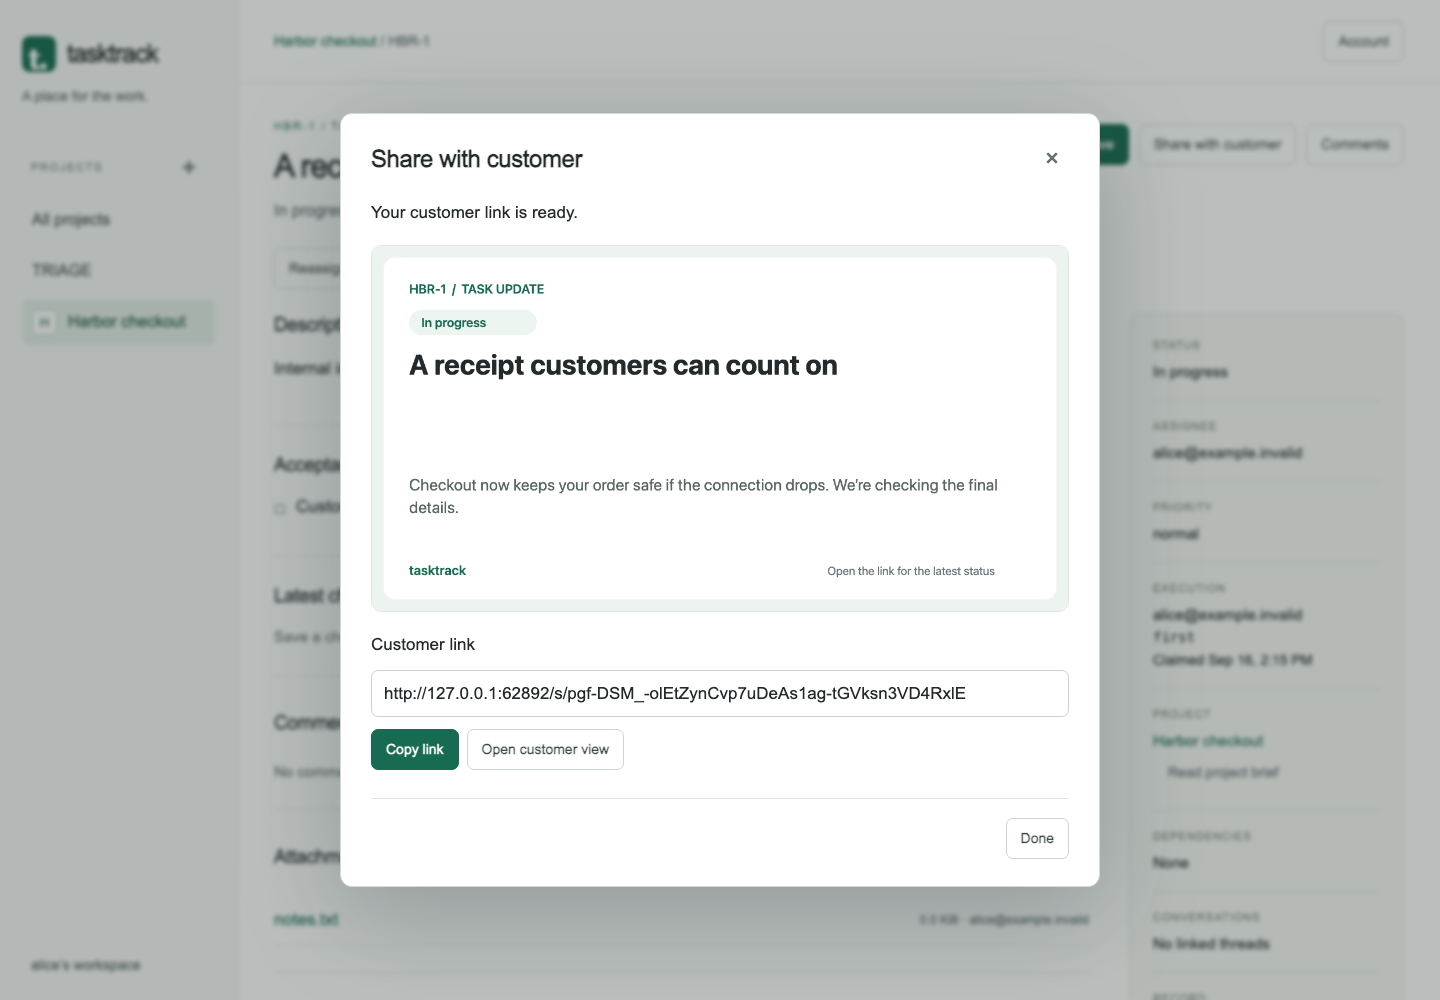
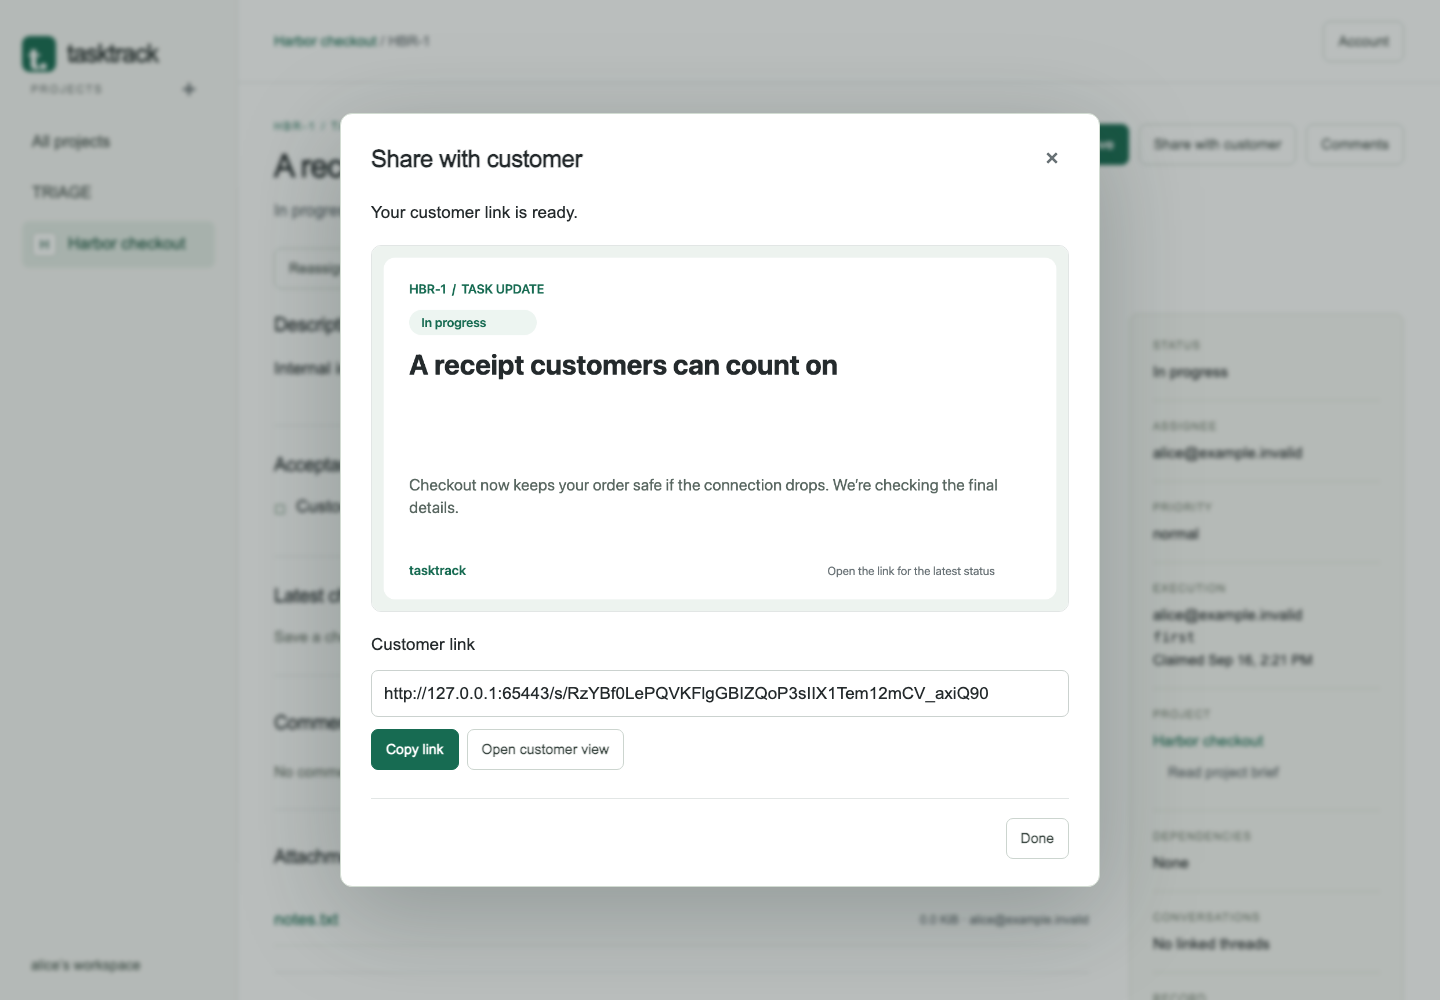
Remove interface filler and condense mobile task cards

diff --git a/tasktrack/static/app.js b/tasktrack/static/app.js
@@ -777,7 +777,7 @@ async function board() {
   const epics = [];
   $("#breadcrumb").textContent = `Projects / ${p.key}`;
   $("#main").innerHTML =
-    `<div class="page-head"><div><p class="eyebrow">${esc(p.key)} / WORKSPACE</p><h1>${esc(p.name)}</h1><p class="page-description">Keep the next step clear. Give good work a place to land.</p></div><div class="head-actions"><button class="button quiet" id="settings">Settings</button><button class="button" id="new-epic">New epic</button><button class="button primary" id="new-task">＋ New task</button></div></div><div class="view-tabs" role="tablist" aria-label="Project views">${[
+    `<div class="page-head"><div><p class="eyebrow">${esc(p.key)} / WORKSPACE</p><h1>${esc(p.name)}</h1></div><div class="head-actions"><button class="button quiet" id="settings">Settings</button><button class="button" id="new-epic">New epic</button><button class="button primary" id="new-task">＋ New task</button></div></div><div class="view-tabs" role="tablist" aria-label="Project views">${[
       ["board", "Board"],
       ["brief", "Project brief"],
       ["history", "Activity"],
@@ -826,7 +826,7 @@ async function board() {
       )
       .join(
         "",
-      )}</div><div class="board-foot"><span id="board-counts">Loading tasks…</span><span>Drag to move · Use a card’s ⋯ menu with a keyboard</span></div>`;
+      )}</div><div class="board-foot"><span id="board-counts">Loading tasks…</span></div>`;
   let timer;
   for (const [id, key] of [
     ["search", "q"],
@@ -954,7 +954,7 @@ function renderColumn(status) {
   $("#count-" + status).textContent = column.total;
   $("#cards-" + status).innerHTML = column.items.length
     ? column.items.map(card).join("")
-    : `<div class="empty-column">${state.view === "archived" ? "No archived work" : Object.values(state.filters).some(Boolean) ? "No matching tasks" : "Room for what’s next"}</div>`;
+    : `<div class="empty-column">${state.view === "archived" ? "No archived work" : Object.values(state.filters).some(Boolean) ? "No matching tasks" : "No tasks"}</div>`;
   $("#more-" + status).innerHTML = column.has_more
     ? `<button class="button load-more" id="load-${status}">Load more · ${column.items.length} of ${column.total}</button>`
     : "";
@@ -1185,7 +1185,7 @@ async function detail(identifier, navigation = state.navigation) {
 }
 function commentForm(task, parent = null) {
   showForm(
-    parent ? "Reply to " + parent.actor : "Add a durable note",
+    parent ? "Reply to " + parent.actor : "Add comment",
     (parent
       ? `<blockquote class="reply-context">${esc(parent.body.slice(0, 240))}</blockquote>`
       : "") +
@@ -1492,7 +1492,7 @@ async function projectIndex() {
   document.title = "Projects · Tasktrack";
   $("#breadcrumb").textContent = "Projects";
   $("#main").innerHTML =
-    `<div class="page-head"><div><h1>Projects</h1><p class="page-description">Your team's work, in one place.</p></div><button class="button primary" id="index-create">New project</button></div><a class="triage-entry" href="/triage" data-nav><strong>TRIAGE</strong><span>Recent work →</span></a><div class="project-grid">${state.projects.map((p) => `<a class="project-tile" href="/projects/${esc(p.key)}" data-nav><span class="eyebrow">${esc(p.key)}</span><h2>${esc(p.name)}</h2><span class="muted">Open project →</span></a>`).join("") || "<p>No projects yet. Create one to get started.</p>"}</div>`;
+    `<div class="page-head"><div><h1>Projects</h1></div><button class="button primary" id="index-create">New project</button></div><a class="triage-entry" href="/triage" data-nav><strong>TRIAGE</strong><span>Recent work →</span></a><div class="project-grid">${state.projects.map((p) => `<a class="project-tile" href="/projects/${esc(p.key)}" data-nav><span class="eyebrow">${esc(p.key)}</span><h2>${esc(p.name)}</h2><span class="muted">Open project →</span></a>`).join("") || "<p>No projects yet. Create one to get started.</p>"}</div>`;
   $("#index-create").onclick = () => projectForm();
 }
 async function triage(cursor = null, append = false) {
@@ -1548,7 +1548,7 @@ async function route() {
     }
     if (!state.projects.length) {
       $("#main").innerHTML =
-        '<section class="empty-workspace"><span class="brand-mark" aria-hidden="true">t.</span><p class="eyebrow">A CLEAR PLACE TO START</p><h1>Good work starts with context.</h1><p>Bring projects, requirements, and the next action together. Create your first project to make room for the work.</p><button class="button primary" id="first-project">Create your first project</button></section>';
+        '<section class="empty-workspace"><span class="brand-mark" aria-hidden="true">t.</span><h1>No projects yet.</h1><button class="button primary" id="first-project">Create your first project</button></section>';
       $("#first-project").onclick = () => projectForm();
       return;
     }

diff --git a/tasktrack/static/style.css b/tasktrack/static/style.css
@@ -1539,3 +1539,56 @@ dialog::backdrop {
     min-width: 44px;
   }
 }
+
+@media (max-width: 700px) {
+  .column {
+    padding: 10px;
+  }
+  .column-head {
+    margin-bottom: 8px;
+  }
+  .cards {
+    gap: 8px;
+  }
+  .card {
+    padding: 10px 12px;
+    border-radius: 8px;
+  }
+  .card-top {
+    margin-bottom: 6px;
+  }
+  .card-title {
+    font-size: 15px;
+    line-height: 1.35;
+    letter-spacing: -0.1px;
+  }
+  .card .epic-tag {
+    margin-top: 6px;
+    font-size: 10px;
+    padding: 1px 5px;
+  }
+  .card .blocked-tag {
+    margin-top: 6px;
+    padding: 2px 5px;
+  }
+  .card-foot {
+    margin-top: 2px;
+    font-size: 11px;
+  }
+  .card .avatar {
+    width: 18px;
+    height: 18px;
+    font-size: 9px;
+  }
+  .card .pickup {
+    margin-top: 3px;
+    padding-top: 4px;
+    font-size: 10px;
+  }
+  .column-title {
+    font-size: 14px;
+  }
+  .page-head {
+    margin-bottom: 12px;
+  }
+}

diff --git a/tasktrack/static/index.html b/tasktrack/static/index.html
@@ -3,7 +3,7 @@
   <head>
     <meta charset="utf-8" />
     <meta name="viewport" content="width=device-width, initial-scale=1" />
-    <title>Tasktrack · Local work, lasting context</title>
+    <title>Tasktrack</title>
     <link rel="stylesheet" href="/style.css" />
     <script src="/app.js" defer></script>
   </head>
@@ -14,7 +14,6 @@
         <a class="brand" href="/" data-nav
           ><span class="brand-mark" aria-hidden="true">t.</span>tasktrack</a
         >
-        <p class="tagline">A place for the work.</p>
         <div class="nav-heading">
           <span>PROJECTS</span
           ><button
@@ -36,7 +35,6 @@
         </button>
         <div class="sidebar-foot">
           <span class="local-dot" aria-hidden="true"></span> Local workspace
-          <small>Your context stays here.</small>
         </div>
       </aside>
       <div class="workspace">

diff --git a/tasktrack/hosted_pages.py b/tasktrack/hosted_pages.py
@@ -20,7 +20,7 @@ def page(title, content, metadata="", script=False):
 <title>{esc(title)} · Tasktrack</title><meta name="robots" content="noindex,nofollow">
 <link rel="icon" href="/favicon.svg"><link rel="stylesheet" href="/style.css"><link rel="stylesheet" href="/hosted.css">
 {metadata}{'<script src="/hosted.js" defer></script>' if script else ""}
-</head><body class="hosted-page"><header class="hosted-nav"><a class="brand" href="/"><span class="brand-mark">t.</span>tasktrack</a><span>A place for the work.</span></header>{content}</body></html>"""
+</head><body class="hosted-page"><header class="hosted-nav"><a class="brand" href="/"><span class="brand-mark">t.</span>tasktrack</a></header>{content}</body></html>"""
 
     for asset in (
         "style.css",
@@ -47,7 +47,7 @@ def auth_page(mode="login", next_path="/", message="", secret="", challenge=""):
         )
         form = f'''<form id="code-form" method="post" action="/auth/code"><input type="hidden" name="challenge" value="{esc(challenge)}"><label for="code">Sign-in code</label><input id="code" name="code" type="text" inputmode="numeric" autocomplete="one-time-code" pattern="[0-9]{{6}}" maxlength="6" required autofocus><button class="button primary">Sign in</button><p id="code-error" role="alert"></p></form><p class="small muted">Expires in 15 minutes. You can also use the link in the email.</p><a href="/login?next={esc(next_path)}">Send a new code</a>'''
     else:
-        title = "Welcome to Tasktrack." if mode == "signup" else "Welcome back."
+        title = "Sign in."
         intro = "Enter your email to sign in."
         form = f'''<form method="post" action="/auth/link"><label for="email">Email address</label><input id="email" name="email" type="email" required autocomplete="email" placeholder="you@example.com" maxlength="254" autofocus><input type="hidden" name="next" value="{esc(next_path)}"><button class="button primary" type="submit">Email me a code</button></form><p class="small muted">Your first sign-in creates a private workspace.</p>'''
     return page(
